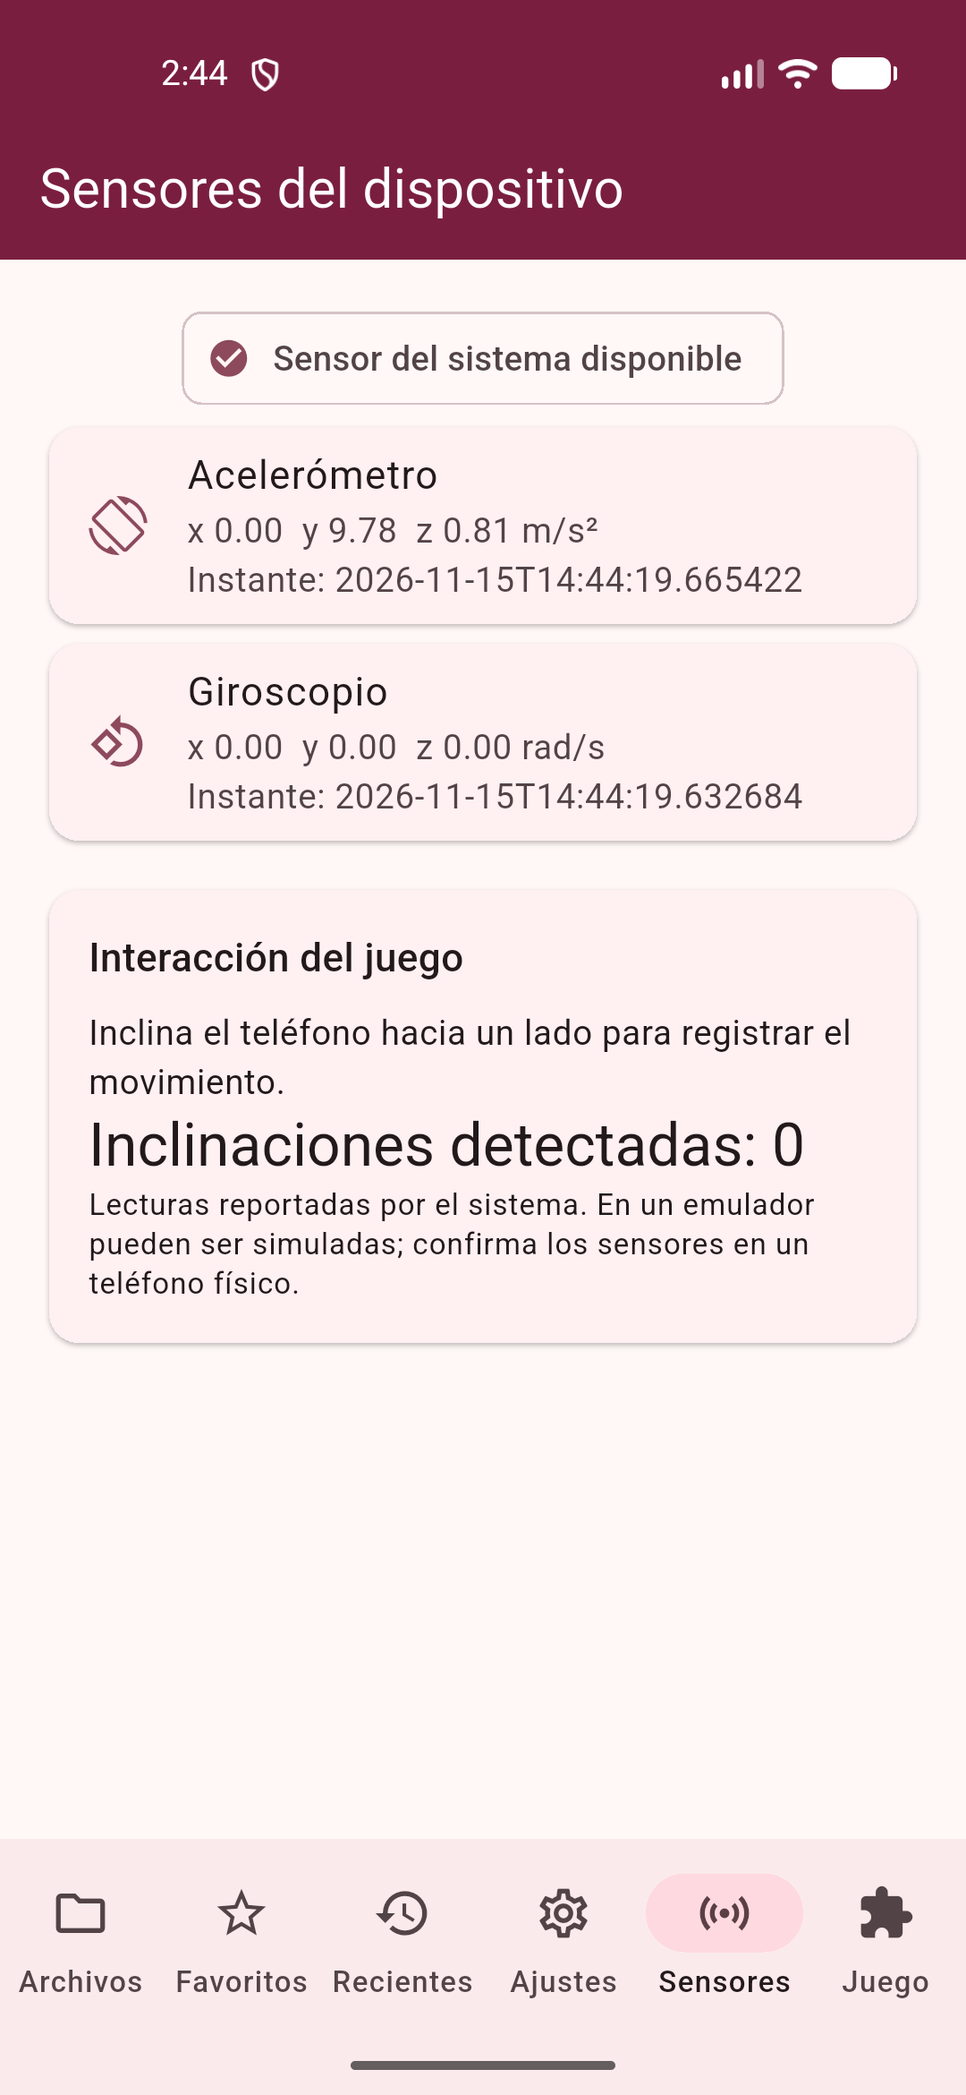
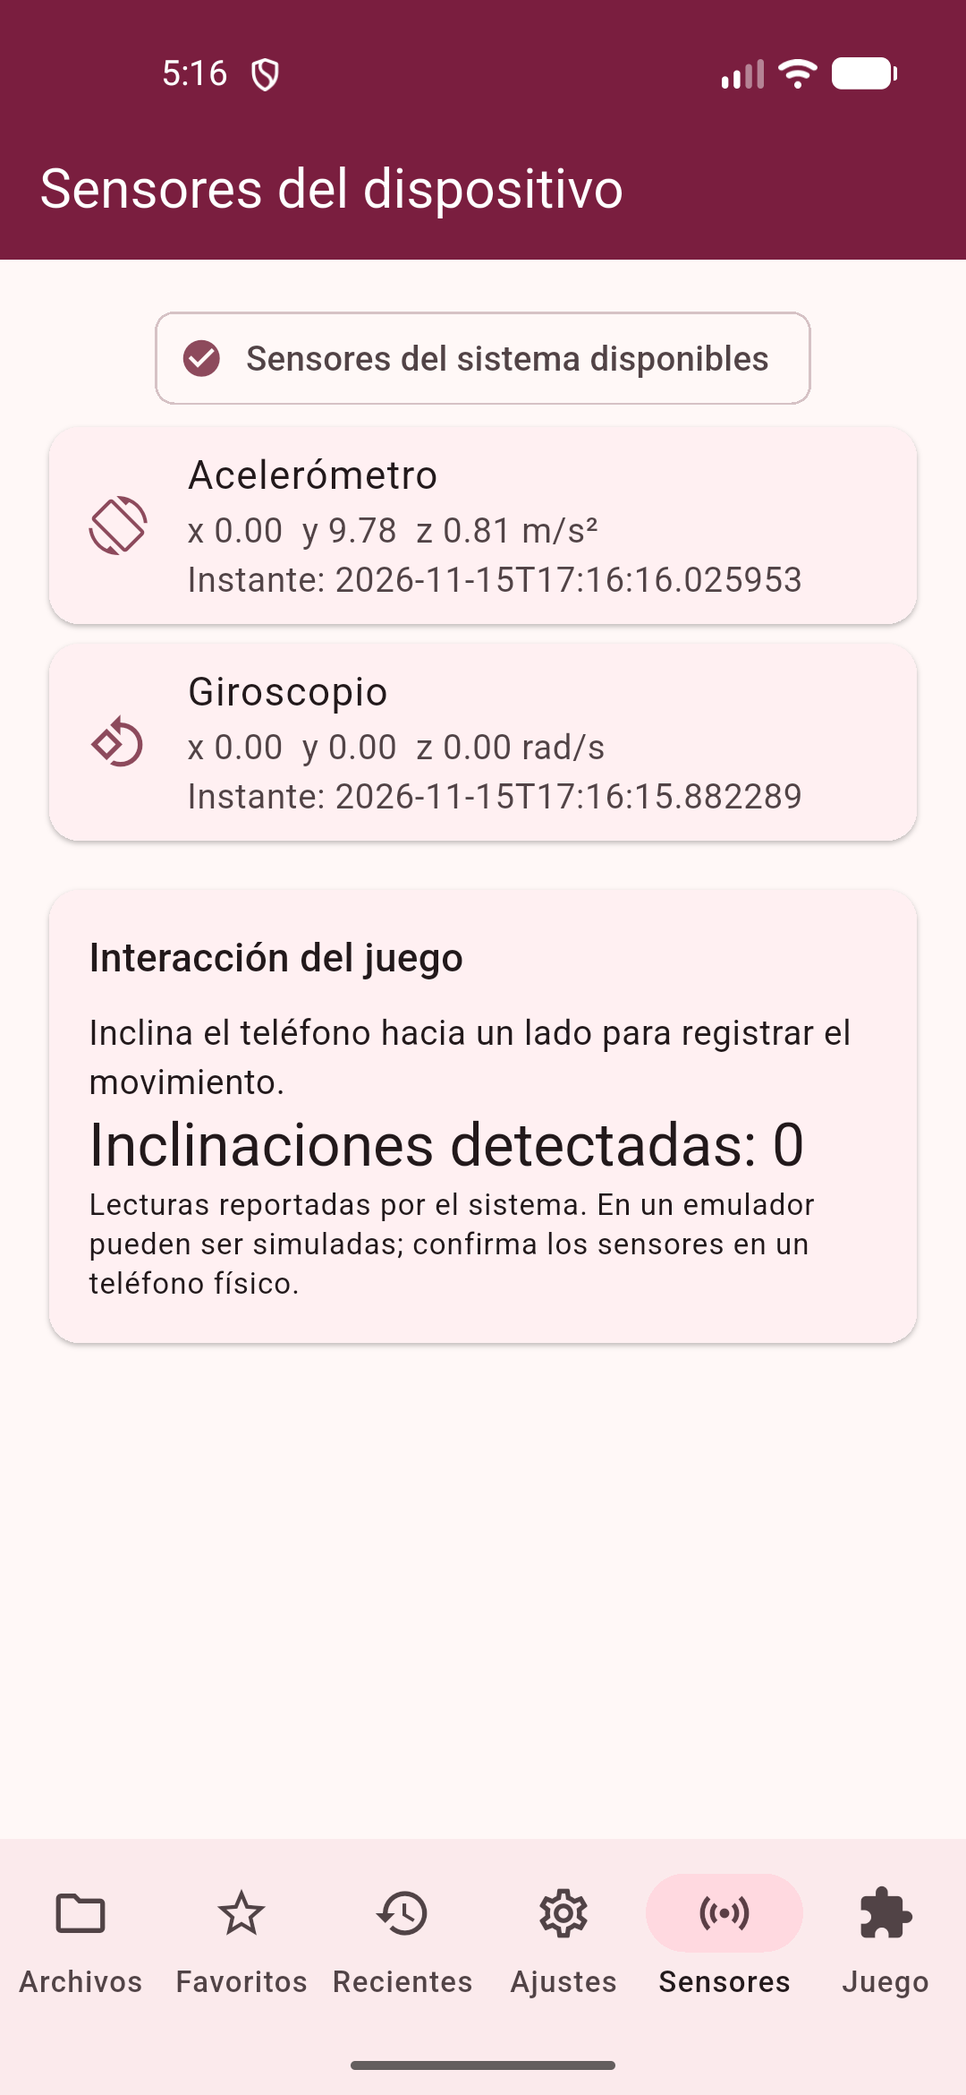
Add iOS simulator evidence and sensor absence handling

diff --git a/lib/features/sensors/sensors_page.dart b/lib/features/sensors/sensors_page.dart
@@ -1,4 +1,5 @@
 import 'dart:async';
+
 import 'package:flutter/material.dart';
 import 'package:sensors_plus/sensors_plus.dart';
 
@@ -13,53 +14,167 @@ class _SensorsPageState extends State<SensorsPage> with WidgetsBindingObserver {
   StreamSubscription<GyroscopeEvent>? _gyro;
   AccelerometerEvent? _a;
   GyroscopeEvent? _g;
+  Timer? _timeout;
   String _status = 'Iniciando sensores…';
   int _gestures = 0;
   bool _available = true;
   bool _tilted = false;
   @override
-  void initState() { super.initState(); WidgetsBinding.instance.addObserver(this); _start(); }
-  void _start() {
-    _accel = accelerometerEventStream(samplingPeriod: SensorInterval.normalInterval).listen((e) {
-      if (!mounted) return;
-      setState(() {
-        _a = e;
-        _status = 'Sensor del sistema disponible';
-        if (e.x.abs() > 7.5 && !_tilted) { _gestures++; _tilted = true; }
-        if (e.x.abs() < 5) _tilted = false;
-      });
-    }, onError: _missing);
-    _gyro = gyroscopeEventStream(samplingPeriod: SensorInterval.normalInterval).listen((e) {
-      if (mounted) setState(() => _g = e);
-    }, onError: _missing);
+  void initState() {
+    super.initState();
+    WidgetsBinding.instance.addObserver(this);
+    _start();
   }
-  void _missing(Object _) { if (mounted) setState(() { _available = false; _status = 'Sensor no disponible'; }); }
-  void _stop() { _accel?.cancel(); _gyro?.cancel(); _accel = null; _gyro = null; }
+
+  void _start() {
+    _timeout?.cancel();
+    _a = null;
+    _g = null;
+    _available = true;
+    _status = 'Iniciando sensores…';
+    _timeout = Timer(const Duration(seconds: 3), () {
+      if (!mounted || (_a != null && _g != null)) return;
+      setState(() {
+        _available = false;
+        _status = 'Sin lectura de uno o más sensores';
+      });
+    });
+    _accel =
+        accelerometerEventStream(samplingPeriod: SensorInterval.normalInterval)
+            .listen((e) {
+              if (!mounted) return;
+              setState(() {
+                _a = e;
+                if (e.x.abs() > 7.5 && !_tilted) {
+                  _gestures++;
+                  _tilted = true;
+                }
+                if (e.x.abs() < 5) _tilted = false;
+                _updateAvailability();
+              });
+            }, onError: _missing);
+    _gyro = gyroscopeEventStream(samplingPeriod: SensorInterval.normalInterval)
+        .listen((e) {
+          if (mounted) {
+            setState(() {
+              _g = e;
+              _updateAvailability();
+            });
+          }
+        }, onError: _missing);
+  }
+
+  void _updateAvailability() {
+    if (_a == null || _g == null) return;
+    _timeout?.cancel();
+    _available = true;
+    _status = 'Sensores del sistema disponibles';
+  }
+
+  void _missing(Object _) {
+    if (!mounted) return;
+    _timeout?.cancel();
+    setState(() {
+      _available = false;
+      _status = 'Sensor no disponible';
+    });
+  }
+
+  void _stop() {
+    _timeout?.cancel();
+    _accel?.cancel();
+    _gyro?.cancel();
+    _accel = null;
+    _gyro = null;
+  }
+
   @override
   void didChangeAppLifecycleState(AppLifecycleState state) {
-    if (state == AppLifecycleState.resumed) { _available = true; _start(); }
-    if (state == AppLifecycleState.paused || state == AppLifecycleState.inactive || state == AppLifecycleState.detached) _stop();
+    if (state == AppLifecycleState.resumed) _start();
+    if (state == AppLifecycleState.paused ||
+        state == AppLifecycleState.inactive ||
+        state == AppLifecycleState.detached) {
+      _stop();
+    }
   }
+
   @override
-  void dispose() { WidgetsBinding.instance.removeObserver(this); _stop(); super.dispose(); }
-  Widget _card(String title, String unit, List<double>? v, DateTime? timestamp, IconData icon) => Card(child: ListTile(
-    leading: Icon(icon, color: Theme.of(context).colorScheme.primary), title: Text(title),
-    subtitle: Text(v == null ? 'Esperando lectura…' : 'x ${v[0].toStringAsFixed(2)}  y ${v[1].toStringAsFixed(2)}  z ${v[2].toStringAsFixed(2)} $unit\nInstante: ${timestamp!.toLocal().toIso8601String()}'),
-  ));
+  void dispose() {
+    WidgetsBinding.instance.removeObserver(this);
+    _stop();
+    super.dispose();
+  }
+
+  Widget _card(
+    String title,
+    String unit,
+    List<double>? v,
+    DateTime? timestamp,
+    IconData icon,
+  ) => Card(
+    child: ListTile(
+      leading: Icon(icon, color: Theme.of(context).colorScheme.primary),
+      title: Text(title),
+      subtitle: Text(
+        v == null
+            ? (_available ? 'Esperando lectura…' : 'Sin datos recibidos')
+            : 'x ${v[0].toStringAsFixed(2)}  y ${v[1].toStringAsFixed(2)}  z ${v[2].toStringAsFixed(2)} $unit\nInstante: ${timestamp!.toLocal().toIso8601String()}',
+      ),
+    ),
+  );
+
   @override
   Widget build(BuildContext context) => Scaffold(
     appBar: AppBar(title: const Text('Sensores del dispositivo')),
-    body: ListView(padding: const EdgeInsets.all(16), children: [
-      Chip(avatar: Icon(_available ? Icons.check_circle : Icons.warning_amber), label: Text(_status)),
-      _card('Acelerómetro', 'm/s²', _a == null ? null : [_a!.x,_a!.y,_a!.z], _a?.timestamp, Icons.screen_rotation),
-      _card('Giroscopio', 'rad/s', _g == null ? null : [_g!.x,_g!.y,_g!.z], _g?.timestamp, Icons.rotate_90_degrees_ccw),
-      const SizedBox(height: 12),
-      Card(child: Padding(padding: const EdgeInsets.all(16), child: Column(crossAxisAlignment: CrossAxisAlignment.start, children: [
-        Text('Interacción del juego', style: Theme.of(context).textTheme.titleMedium),
-        const SizedBox(height: 8), const Text('Inclina el teléfono hacia un lado para registrar el movimiento.'),
-        Text('Inclinaciones detectadas: $_gestures', style: Theme.of(context).textTheme.headlineSmall),
-        Text('Lecturas reportadas por el sistema. En un emulador pueden ser simuladas; confirma los sensores en un teléfono físico.', style: Theme.of(context).textTheme.bodySmall),
-      ]))),
-    ]),
+    body: ListView(
+      padding: const EdgeInsets.all(16),
+      children: [
+        Chip(
+          avatar: Icon(_available ? Icons.check_circle : Icons.warning_amber),
+          label: Text(_status),
+        ),
+        _card(
+          'Acelerómetro',
+          'm/s²',
+          _a == null ? null : [_a!.x, _a!.y, _a!.z],
+          _a?.timestamp,
+          Icons.screen_rotation,
+        ),
+        _card(
+          'Giroscopio',
+          'rad/s',
+          _g == null ? null : [_g!.x, _g!.y, _g!.z],
+          _g?.timestamp,
+          Icons.rotate_90_degrees_ccw,
+        ),
+        const SizedBox(height: 12),
+        Card(
+          child: Padding(
+            padding: const EdgeInsets.all(16),
+            child: Column(
+              crossAxisAlignment: CrossAxisAlignment.start,
+              children: [
+                Text(
+                  'Interacción del juego',
+                  style: Theme.of(context).textTheme.titleMedium,
+                ),
+                const SizedBox(height: 8),
+                const Text(
+                  'Inclina el teléfono hacia un lado para registrar el movimiento.',
+                ),
+                Text(
+                  'Inclinaciones detectadas: $_gestures',
+                  style: Theme.of(context).textTheme.headlineSmall,
+                ),
+                Text(
+                  'Lecturas reportadas por el sistema. En un emulador pueden ser simuladas; confirma los sensores en un teléfono físico.',
+                  style: Theme.of(context).textTheme.bodySmall,
+                ),
+              ],
+            ),
+          ),
+        ),
+      ],
+    ),
   );
 }

diff --git a/README.md b/README.md
@@ -59,9 +59,21 @@ Capturas tomadas el 15 de noviembre de 2026 desde Android Studio Emulator, AVD `
 
 Estas pantallas prueban los flujos disponibles en este incremento. **No demuestran** una partida sincronizada por Bluetooth, transferencia entre dispositivos, autenticación biométrica ni consulta web mediada: esas funciones siguen pendientes de implementación y por eso no tienen capturas de éxito.
 
+### Simulador iOS
+
+La app también se ejecutó en iPhone 17 Simulator con iOS 27.2 usando Xcode 27.2. Para estas capturas se usó temporalmente `integration_test`; tanto la prueba como sus dependencias temporales se retiraron después. El simulador no entregó lecturas de acelerómetro/giroscopio, así que la pantalla muestra el estado de ausencia de datos. Esto no sustituye probar sensores en un iPhone físico.
+
+![Gestor de archivos ejecutándose en iPhone 17 Simulator](evidencias/ios/ios_archivos.png)
+
+![Estado sin lecturas de sensores en el simulador iOS](evidencias/ios/ios_sensores.png)
+
+![Menú de Circuito Guinda en iPhone 17 Simulator](evidencias/ios/ios_juego.png)
+
+![Tablero local de Circuito Guinda en iPhone 17 Simulator](evidencias/ios/ios_partida_local.png)
+
 ## Estado de los requisitos de Práctica 6
 
-El gestor y el juego anterior se integraron y la lectura de sensores es real. `flutter analyze`, compilación APK y arranque en el AVD Pixel_4a quedaron verificados. Las funciones nuevas que requieren comunicación entre teléfonos aún están pendientes de implementación: BLE interoperable Android/iOS para juego y transferencia; biometría; y cliente web mediado por Bluetooth. No se declara una sesión física ni evidencia de iOS que no se haya realizado. La arquitectura y matriz de pendientes/pruebas están en [`README for IAS/README.md`](README%20for%20IAS/README.md). Antes de entregar hay que probar con dos equipos, recopilar evidencia real y registrar el resultado por par de dispositivos.
+El gestor y el juego anterior se integraron y la lectura de sensores está conectada al sistema. `flutter analyze`, compilación APK y arranque en el AVD Pixel_4a quedaron verificados. La app también compiló y se recorrió en el simulador iPhone 17 de Xcode 27.2. Las funciones nuevas que requieren comunicación entre teléfonos aún están pendientes de implementación: BLE interoperable Android/iOS para juego y transferencia; biometría; y cliente web mediado por Bluetooth. No se declara una sesión Bluetooth física ni ejecución en un iPhone físico. La arquitectura y matriz de pendientes/pruebas están en [`README for IAS/README.md`](README%20for%20IAS/README.md). Antes de entregar hay que probar con dos equipos, recopilar evidencia real y registrar el resultado por par de dispositivos.
 
 ### Arquitectura y decisiones actuales
 
@@ -91,12 +103,12 @@ Frame JSON UTF-8 propuesto:
 
 ### Matriz de pruebas y evidencias
 
-Completar el resultado, dispositivo/versión y evidencia solo después de ejecutar cada caso. No se han hecho pruebas automatizadas ni pruebas con segundo teléfono.
+Completar el resultado, dispositivo/versión y evidencia solo después de ejecutar cada caso. No se ejecutaron las pruebas automatizadas permanentes ni pruebas con segundo teléfono; sí se usó una prueba temporal para capturar flujos en el simulador iOS y luego se eliminó.
 
 | Caso | Pasos | Resultado esperado | Resultado / dispositivo / evidencia |
 |---|---|---|---|
 | Acelerómetro y giroscopio disponibles | Abrir Sensores y observar valores | Lectura, unidad, instante y estado; distinguir valores simulados | AVD Pixel_4a reportó valores; teléfono físico pendiente |
-| Sensor ausente | Desactivar o simular ausencia | Mensaje informativo, app estable | Pendiente |
+| Sensor ausente | Abrir Sensores en simulador iOS | Mensaje informativo, app estable | iPhone 17 Simulator: sin lecturas, aviso de ausencia verificado |
 | Pausa y reanudación | Enviar la app a segundo plano y volver | Streams detenidos y retomados | Implementado; prueba manual pendiente |
 | Permiso denegado | Probar permisos aplicables | Explicación y salida segura | Sensores no requieren permiso móvil; permisos BLE aún no implementados |
 | Juego BLE, turno y duplicado | Requiere transporte implementado | Una jugada por secuencia | Pendiente |
@@ -104,7 +116,7 @@ Completar el resultado, dispositivo/versión y evidencia solo después de ejecut
 | Hash incorrecto, cancelar y desconectar | Requiere transferencia BLE | Temporal descartado; estado fallido/cancelado | Pendiente |
 | Consulta web con B sin Internet | Requiere proxy BLE en A | Red solo a través de A; caché identificada | Pendiente |
 | Android en Pixel 4a | Ejecutar `./scripts/run_pixel4a.sh` | Instala y abre la app | Verificado en AVD Pixel_4a de este equipo; físico pendiente |
-| iOS | Compilar y ejecutar con Xcode | Evidencia real en iOS 15+ | No verificado |
+| iOS | Ejecutar en iPhone 17 Simulator | UI compartida inicia y muestra pantallas | Xcode 27.2 / iOS 27.2; iPhone físico pendiente |
 
 ### Pendientes para completar la práctica
 
@@ -121,14 +133,14 @@ Completar el resultado, dispositivo/versión y evidencia solo después de ejecut
 - `flutter build apk --debug`: exitoso; artefacto local en `build/app/outputs/flutter-apk/app-debug.apk` (no se incluye en el repositorio).
 - `./scripts/run_pixel4a.sh`: compiló, instaló y abrió la app en el AVD `Pixel_4a` de este equipo. En la prueba manual se recorrieron gestor, ejemplos, visor Markdown, visor JSON, visor de imagen, ajustes de tema, sensores, menú del juego, inicio de partida y rotación de una pieza. Se corrigió un error al abrir la ruta del tablero: el proveedor de servicios del juego ahora queda por encima del navegador principal.
 - `flutter test`: no ejecutado en este avance.
-- No se añadió ninguna prueba temporal ni dependencia temporal; las pruebas de flujo se hicieron con el emulador y `adb`.
-- iOS: no ejecutable aquí porque está seleccionado Xcode Command Line Tools y `simctl` no está disponible. Teléfono físico/segundo dispositivo: no verificados.
+- En Android, los flujos se recorrieron manualmente con el emulador y `adb`. Para capturar iOS se usó una prueba temporal y dependencias SDK, retiradas después.
+- iOS: `flutter drive` temporal ejecutado en iPhone 17 Simulator (iOS 27.2 / Xcode 27.2); capturas revisadas y guardadas. Teléfono físico no verificado.
 - Se usó asistencia de IA para integrar la fuente de la Práctica 4, añadir la pantalla de sensores y preparar configuración/documentación. El estudiante debe revisar el código, ejecutar las pruebas pendientes y reportar cualquier error encontrado.
 
 ## Plataformas
 
 - Android: `minSdk 24`; no se solicitan permisos de almacenamiento global. Los documentos externos se eligen con el selector del sistema.
-- iOS: despliegue mínimo 15.0 configurado por Flutter. El arranque aquí no sustituye una compilación y verificación real con Xcode.
+- iOS: despliegue mínimo 15.0. Build y recorrido básico verificados en iPhone 17 Simulator (iOS 27.2 / Xcode 27.2); falta verificar hardware físico.
 - Bluetooth todavía no está habilitado; por ello el manifiesto no pide permisos Bluetooth ni ubicación innecesarios.
 
 ## Desarrollo
@@ -143,10 +155,10 @@ Flutter 3.47.9 / Dart 3.13.7. Dependencias directas adicionales a Flutter SDK: `
 
 ## English
 
-Flutter app for Android 24+ and iOS 15+, combining the Practice 4 file manager and Circuito Guinda game with physical accelerometer and gyroscope readings. For a clean Android checkout, install Flutter 3.47.9, Android Studio/SDK, and an AVD named `Pixel_4a`, then run `./scripts/run_pixel4a.sh`. Dependencies are locked in `pubspec.lock`; machine-specific SDK paths and signing keys are not committed.
+Flutter app for Android 24+ and iOS 15+, combining the Practice 4 file manager and Circuito Guinda game with accelerometer and gyroscope readings reported by the operating system. For a clean Android checkout, install Flutter 3.47.9, Android Studio/SDK, and an AVD named `Pixel_4a`, then run `./scripts/run_pixel4a.sh`. Dependencies are locked in `pubspec.lock`; machine-specific SDK paths and signing keys are not committed.
 
-The Practice 6 BLE multiplayer/file transfer, biometric protection, and Bluetooth-relayed HTTPS client are not implemented yet. No physical-device or iOS result is claimed. See [`README for IAS/README.md`](README%20for%20IAS/README.md) for architecture, protocol proposal, limitations, and the verification matrix.
+The app was built and exercised in an iPhone 17 simulator (iOS 27.2 / Xcode 27.2); no physical iPhone result is claimed. The Practice 6 BLE multiplayer/file transfer, biometric protection, and Bluetooth-relayed HTTPS client are not implemented yet. See [`README for IAS/README.md`](README%20for%20IAS/README.md) for architecture, protocol proposal, limitations, and the verification matrix.
 
 ## Uso de IA
 
-Se usó asistencia de IA para integrar código de la Práctica 4, añadir la pantalla de sensores y redactar configuración/documentación inicial. Se verificará con análisis, pruebas automatizadas y compilación; los resultados pendientes se deben completar y declarar por quien entregue.
+Se usó asistencia de IA para integrar código de la Práctica 4, añadir/ajustar la pantalla de sensores y preparar configuración/documentación. Se corrigió el ámbito de servicios para que las rutas del juego local funcionen. Verificado con `flutter analyze`, APK Android y recorrido con prueba temporal en iPhone 17 Simulator; esa prueba y sus dependencias se retiraron. Las pruebas automatizadas permanentes y la verificación en teléfonos físicos siguen pendientes.

diff --git a/README for IAS/README.md b/README for IAS/README.md
@@ -36,24 +36,24 @@ Cada mensaje será un frame UTF-8 JSON con campos obligatorios:
 | Requisito | Estado en este checkout |
 |---|---|
 | Gestor y juego P4 | Integrados; autosave local del juego |
-| Acelerómetro y giroscopio | Lecturas reportadas por el sistema, valor/unidad/instante/estado e interacción básica. En emulador pueden ser simuladas. |
-| Ausencia / pausa / reanudación sensores | Error mostrado; streams se cancelan y se vuelven a abrir |
+| Acelerómetro y giroscopio | Lecturas reportadas por el sistema, valor/unidad/instante/estado e interacción básica. En simulador pueden ser virtuales o no estar disponibles. |
+| Ausencia / pausa / reanudación sensores | Timeout/error informativo; streams se cancelan y se vuelven a abrir |
 | Biometría al proteger acción de archivo | Pendiente |
 | Juego sincronizado por Bluetooth, roles, secuencia/deduplicación | Pendiente; juego actual es local |
 | Transferencia TXT/JSON/XML/JPG por Bluetooth, bloques, SHA-256 | Pendiente |
 | Cliente HTTPS mediado por Bluetooth y controles anti SSRF | Pendiente |
 | Android Pixel 4a | `flutter run` compiló, instaló y abrió en AVD `Pixel_4a`; gestor, visor, ajustes, sensores y juego local recorridos. Capturas en `evidencias/`. Físico pendiente. |
 | Dos teléfonos físicos / pares Android-iOS | Pendiente de pruebas y evidencia |
-| iOS/Xcode | No ejecutable en este entorno: Xcode no está seleccionado y `simctl` no está disponible |
+| iOS/Xcode | Xcode 27.2 e iPhone 17 Simulator (iOS 27.2): app compilada y pantallas recorridas; iPhone físico pendiente |
 
 ## Matriz de pruebas y evidencias
 
-Completar `obtenido`, `dispositivo/versión` y evidencia física solo tras ejecutar cada caso. Las capturas del AVD están en `evidencias/`; sus lecturas de sensores pueden ser virtuales.
+Completar `obtenido`, `dispositivo/versión` y evidencia física solo tras ejecutar cada caso. Las capturas del AVD y simulador iOS están en `evidencias/`; sus sensores pueden ser virtuales o no reportar datos.
 
 | Caso | Pasos | Esperado | Obtenido / dispositivo / evidencia |
 |---|---|---|---|
 | Acelerómetro/giroscopio disponibles | Abrir Sensores, observar valores | Valor, unidad, instante y estado; distinguir simulación | AVD Pixel_4a reportó valores; teléfono físico pendiente |
-| Sensor ausente | Desactivar/simular ausencia | Mensaje informativo, app estable | Pendiente |
+| Sensor ausente | Abrir Sensores en simulador iOS | Mensaje informativo, app estable | iPhone 17 Simulator: sin lecturas, aviso verificado |
 | Pausa/reanudación | Ir a segundo plano y volver | Streams detenidos y retomados | Pendiente |
 | Permiso denegado | Aplicable al permiso que se implemente | Explicación y salida segura | Pendiente (sensores no piden permiso móvil) |
 | Juego local | Abrir Juego, Modo Clásico y girar pieza | Tablero y contador de movimiento | AVD Pixel_4a: abierto y un giro aplicado; no es sesión Bluetooth |
@@ -68,4 +68,4 @@ Este incremento no cubre todavía los tres ejercicios nuevos que necesitan Bluet
 
 ## Registro de asistencia de IA
 
-Asistencia de IA para integrar la fuente existente de P4, añadir la UI de sensores y preparar configuración/documentación. También se corrigió el ámbito de servicios del juego para que las rutas de partida reciban el proveedor usado por el menú. Validación: `flutter analyze` sin incidencias; `flutter build apk --debug` exitoso; app abierta; gestor, JSON, imagen, ajustes, sensores y juego local recorridos. No se ejecutaron pruebas automatizadas ni se verificó teléfono físico/iOS. No se añadieron pruebas temporales ni dependencias temporales. Revisar el código y completar verificaciones restantes antes de la entrega.
+Asistencia de IA para integrar la fuente existente de P4, añadir la UI de sensores y preparar configuración/documentación. Se corrigió el ámbito de servicios del juego y se añadió un timeout para informar si los sensores no envían datos. Validación: `flutter analyze`, APK debug y AVD Android; prueba temporal `integration_test` recorrió Archivos, sensor ausente, menú y tablero local en iPhone 17 Simulator. La prueba y sus dependencias temporales se retiraron después. Teléfonos físicos e interoperabilidad BLE no verificados.
